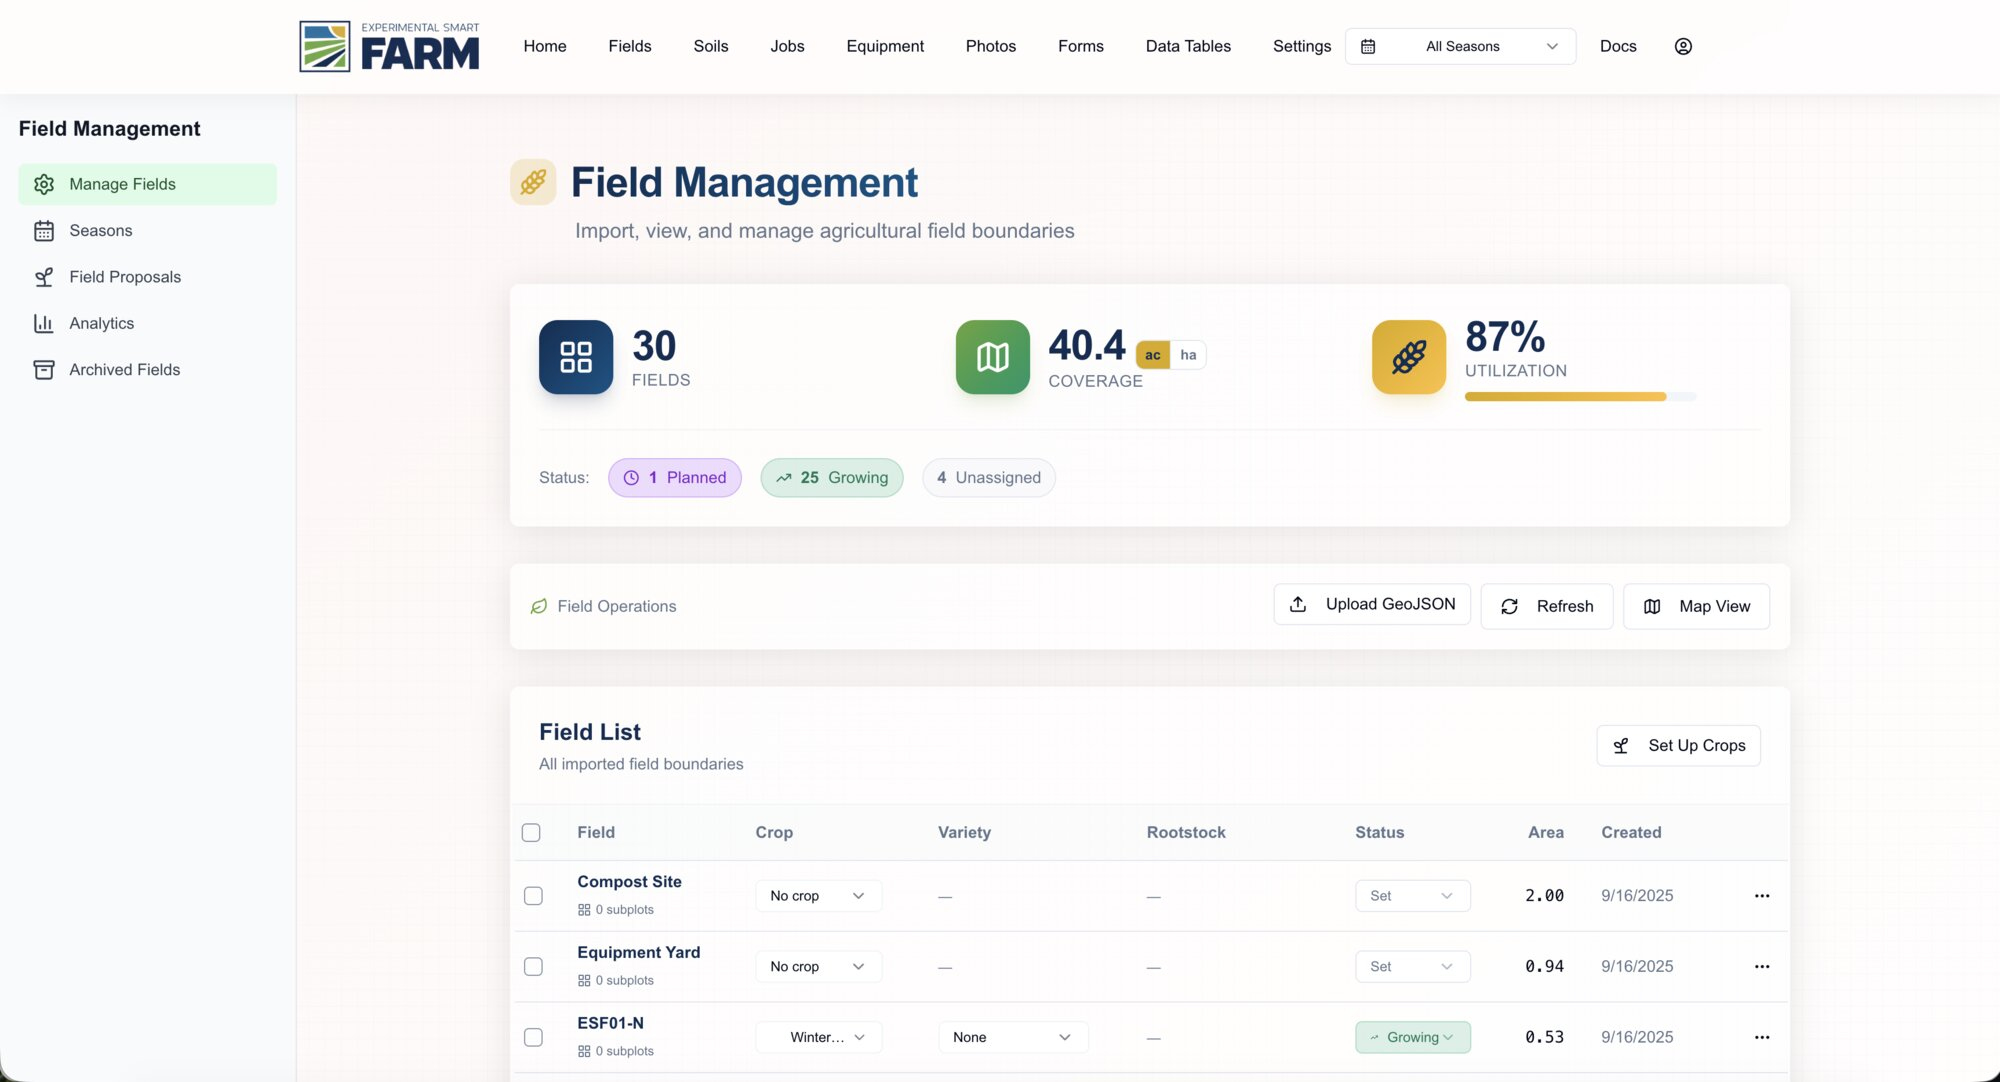
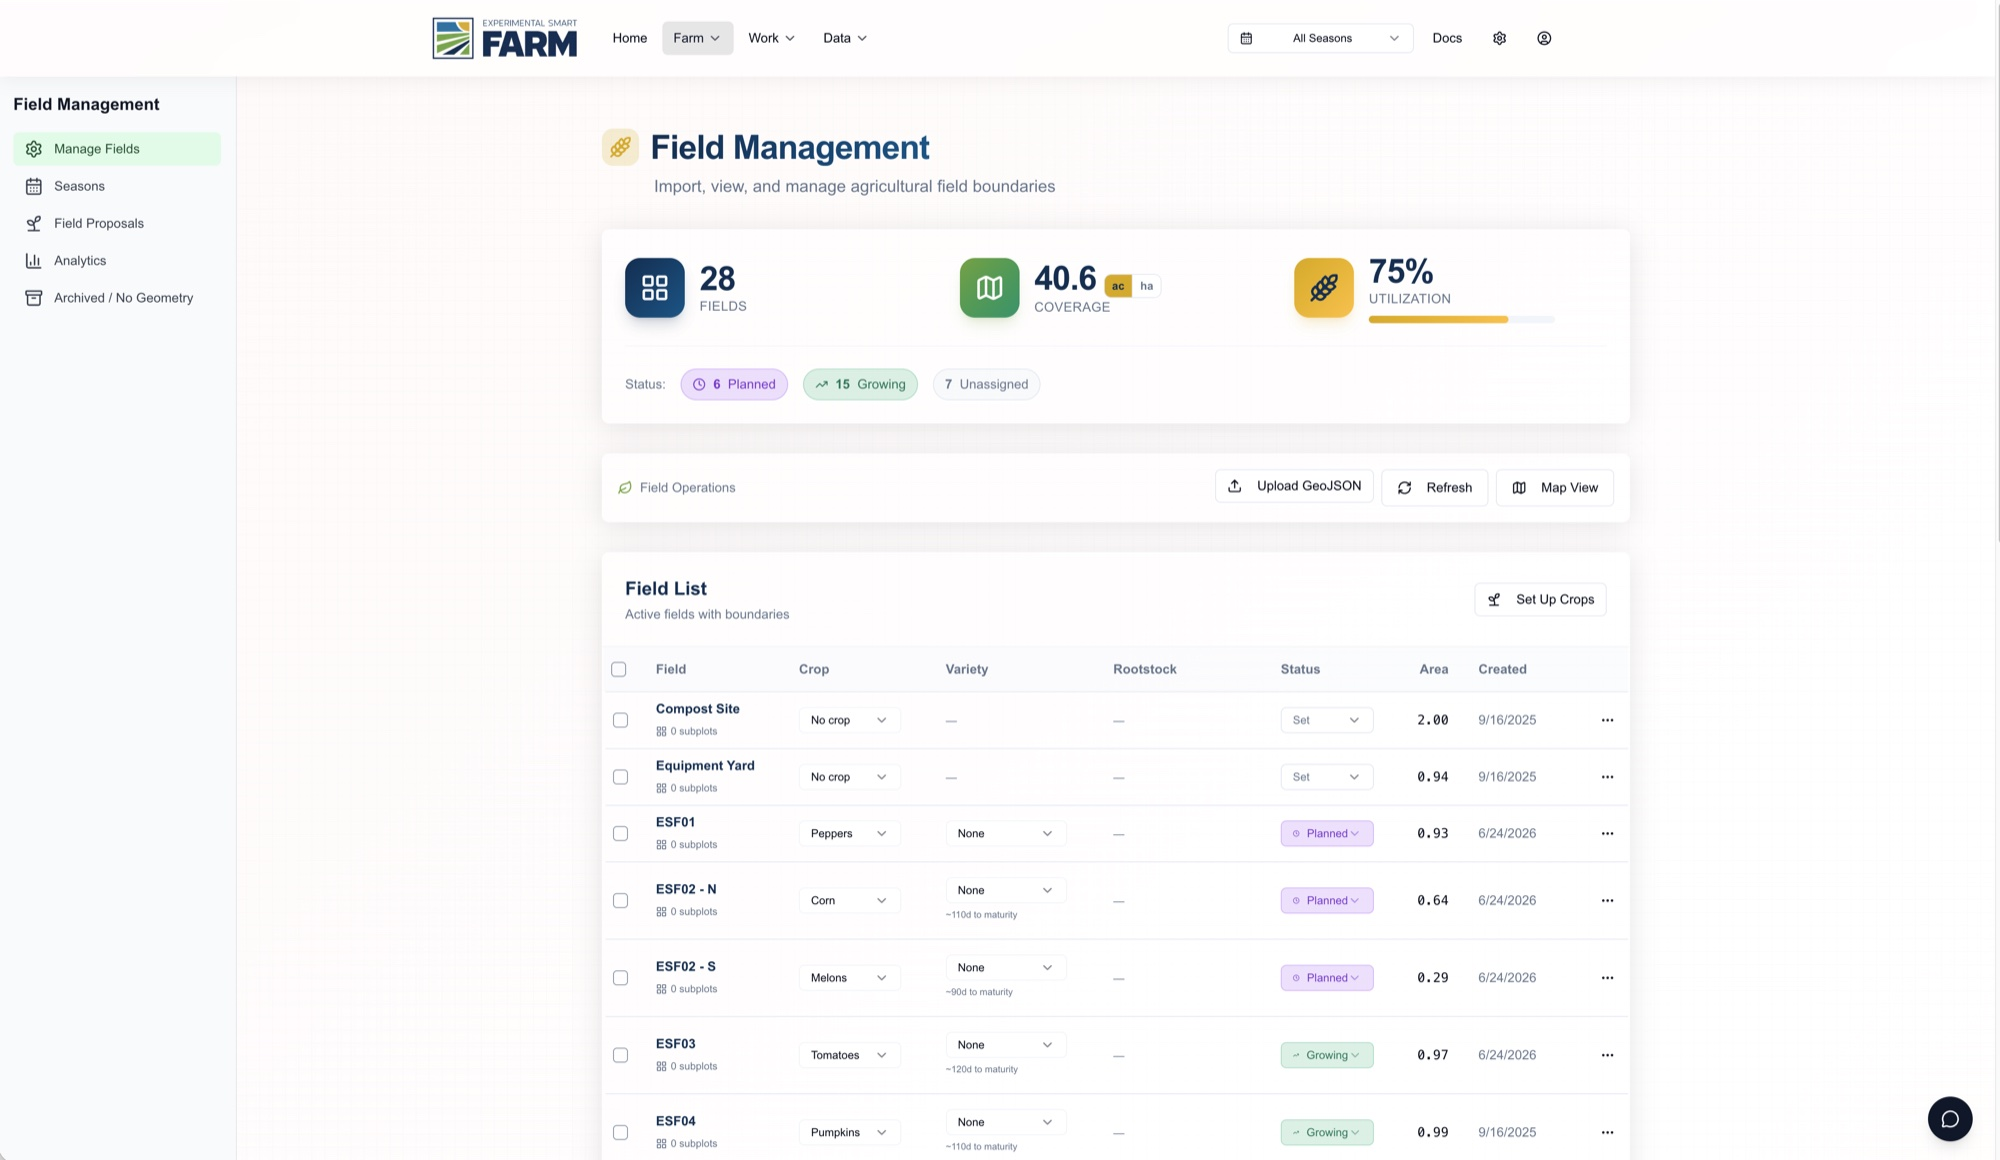
Add 'Watching the season turn' NDVI small-multiples slide
Jan 20 / Mar 25 / Apr 28 2026 flights over the center fields at a fixed
NDVI scale. Feb 24 flight excluded (different mission footprint, east
of the farm core).

diff --git a/styles/uc-merced.css b/styles/uc-merced.css
@@ -678,6 +678,37 @@ em { color: inherit; }
   border-radius: 50%;
 }
 
+/* ---- Season small multiples ---- */
+.uc-season-row {
+  display: flex;
+  gap: 0.9rem;
+}
+
+.uc-season-row figure {
+  flex: 1;
+  margin: 0;
+}
+
+.uc-season-row img {
+  display: block;
+  width: 100%;
+  border-radius: 8px;
+  box-shadow: var(--uc-shadow);
+}
+
+.uc-season-cap {
+  margin-top: 0.45rem;
+  text-align: center;
+  font-size: 0.62rem;
+  letter-spacing: 0.14em;
+  text-transform: uppercase;
+  color: var(--uc-muted);
+}
+
+.uc-season-cap strong {
+  color: var(--uc-navy);
+}
+
 /* ---- Architecture and real work ---- */
 .uc-architecture {
   display: grid;

diff --git a/slides.md b/slides.md
@@ -89,8 +89,8 @@ farm into a living data system.
 <div class="uc-stat-stack">
 
 <div class="uc-stat"><span class="uc-stat-num">28</span><span class="uc-stat-label">fields tracked on the farm today</span></div>
-<div class="uc-stat"><span class="uc-stat-num">40.4</span><span class="uc-stat-label">acres under active management</span></div>
-<div class="uc-stat"><span class="uc-stat-num">87%</span><span class="uc-stat-label">of field capacity in use right now</span></div>
+<div class="uc-stat"><span class="uc-stat-num">40.6</span><span class="uc-stat-label">acres under active management</span></div>
+<div class="uc-stat"><span class="uc-stat-num">75%</span><span class="uc-stat-label">of field capacity in use right now</span></div>
 
 </div>
 
@@ -431,6 +431,31 @@ One drone flight <strong>(Apr 28)</strong> plus one LiDAR pass <strong>(Jan 22)<
 layout: default
 ---
 
+# Watching the season turn
+
+<div class="uc-season-row mt-9">
+  <figure>
+    <img src="/farm/generated/season-jan.jpg" alt="NDVI, January 20: mixed winter cover, east beds bare">
+    <figcaption class="uc-season-cap"><strong>January 20</strong> · winter cover</figcaption>
+  </figure>
+  <figure>
+    <img src="/farm/generated/season-mar.jpg" alt="NDVI, March 25: peak green across nearly every field">
+    <figcaption class="uc-season-cap"><strong>March 25</strong> · peak green</figcaption>
+  </figure>
+  <figure>
+    <img src="/farm/generated/season-apr.jpg" alt="NDVI, April 28: west beds turned bare, east beds newly planted">
+    <figcaption class="uc-season-cap"><strong>April 28</strong> · beds turned</figcaption>
+  </figure>
+</div>
+
+<div class="uc-callout mt-6">
+Same fields, same NDVI scale, three flights apart. Every flight lands in the archive — <strong>aligned and comparable</strong>.
+</div>
+
+---
+layout: default
+---
+
 # What it looks like today
 
 <div class="uc-proof-shot mt-4">
@@ -450,7 +475,7 @@ layout: default
 <div class="uc-dual-shot-grid">
 
 <div class="uc-dual-shot">
-<img src="/app/esf-field-management.jpg" alt="FarmKit field management dashboard showing 30 fields, 40.4 acres of coverage, and 87% utilization">
+<img src="/app/esf-field-management.jpg" alt="FarmKit field management dashboard showing 28 fields, 40.6 acres of coverage, and 75% utilization">
 <div class="uc-dual-shot-cap">
 <h4>Field management</h4>
 <p>Every boundary, crop, and season tracked in one place — the bookkeeping layer FarmLink's unify step builds on.</p>